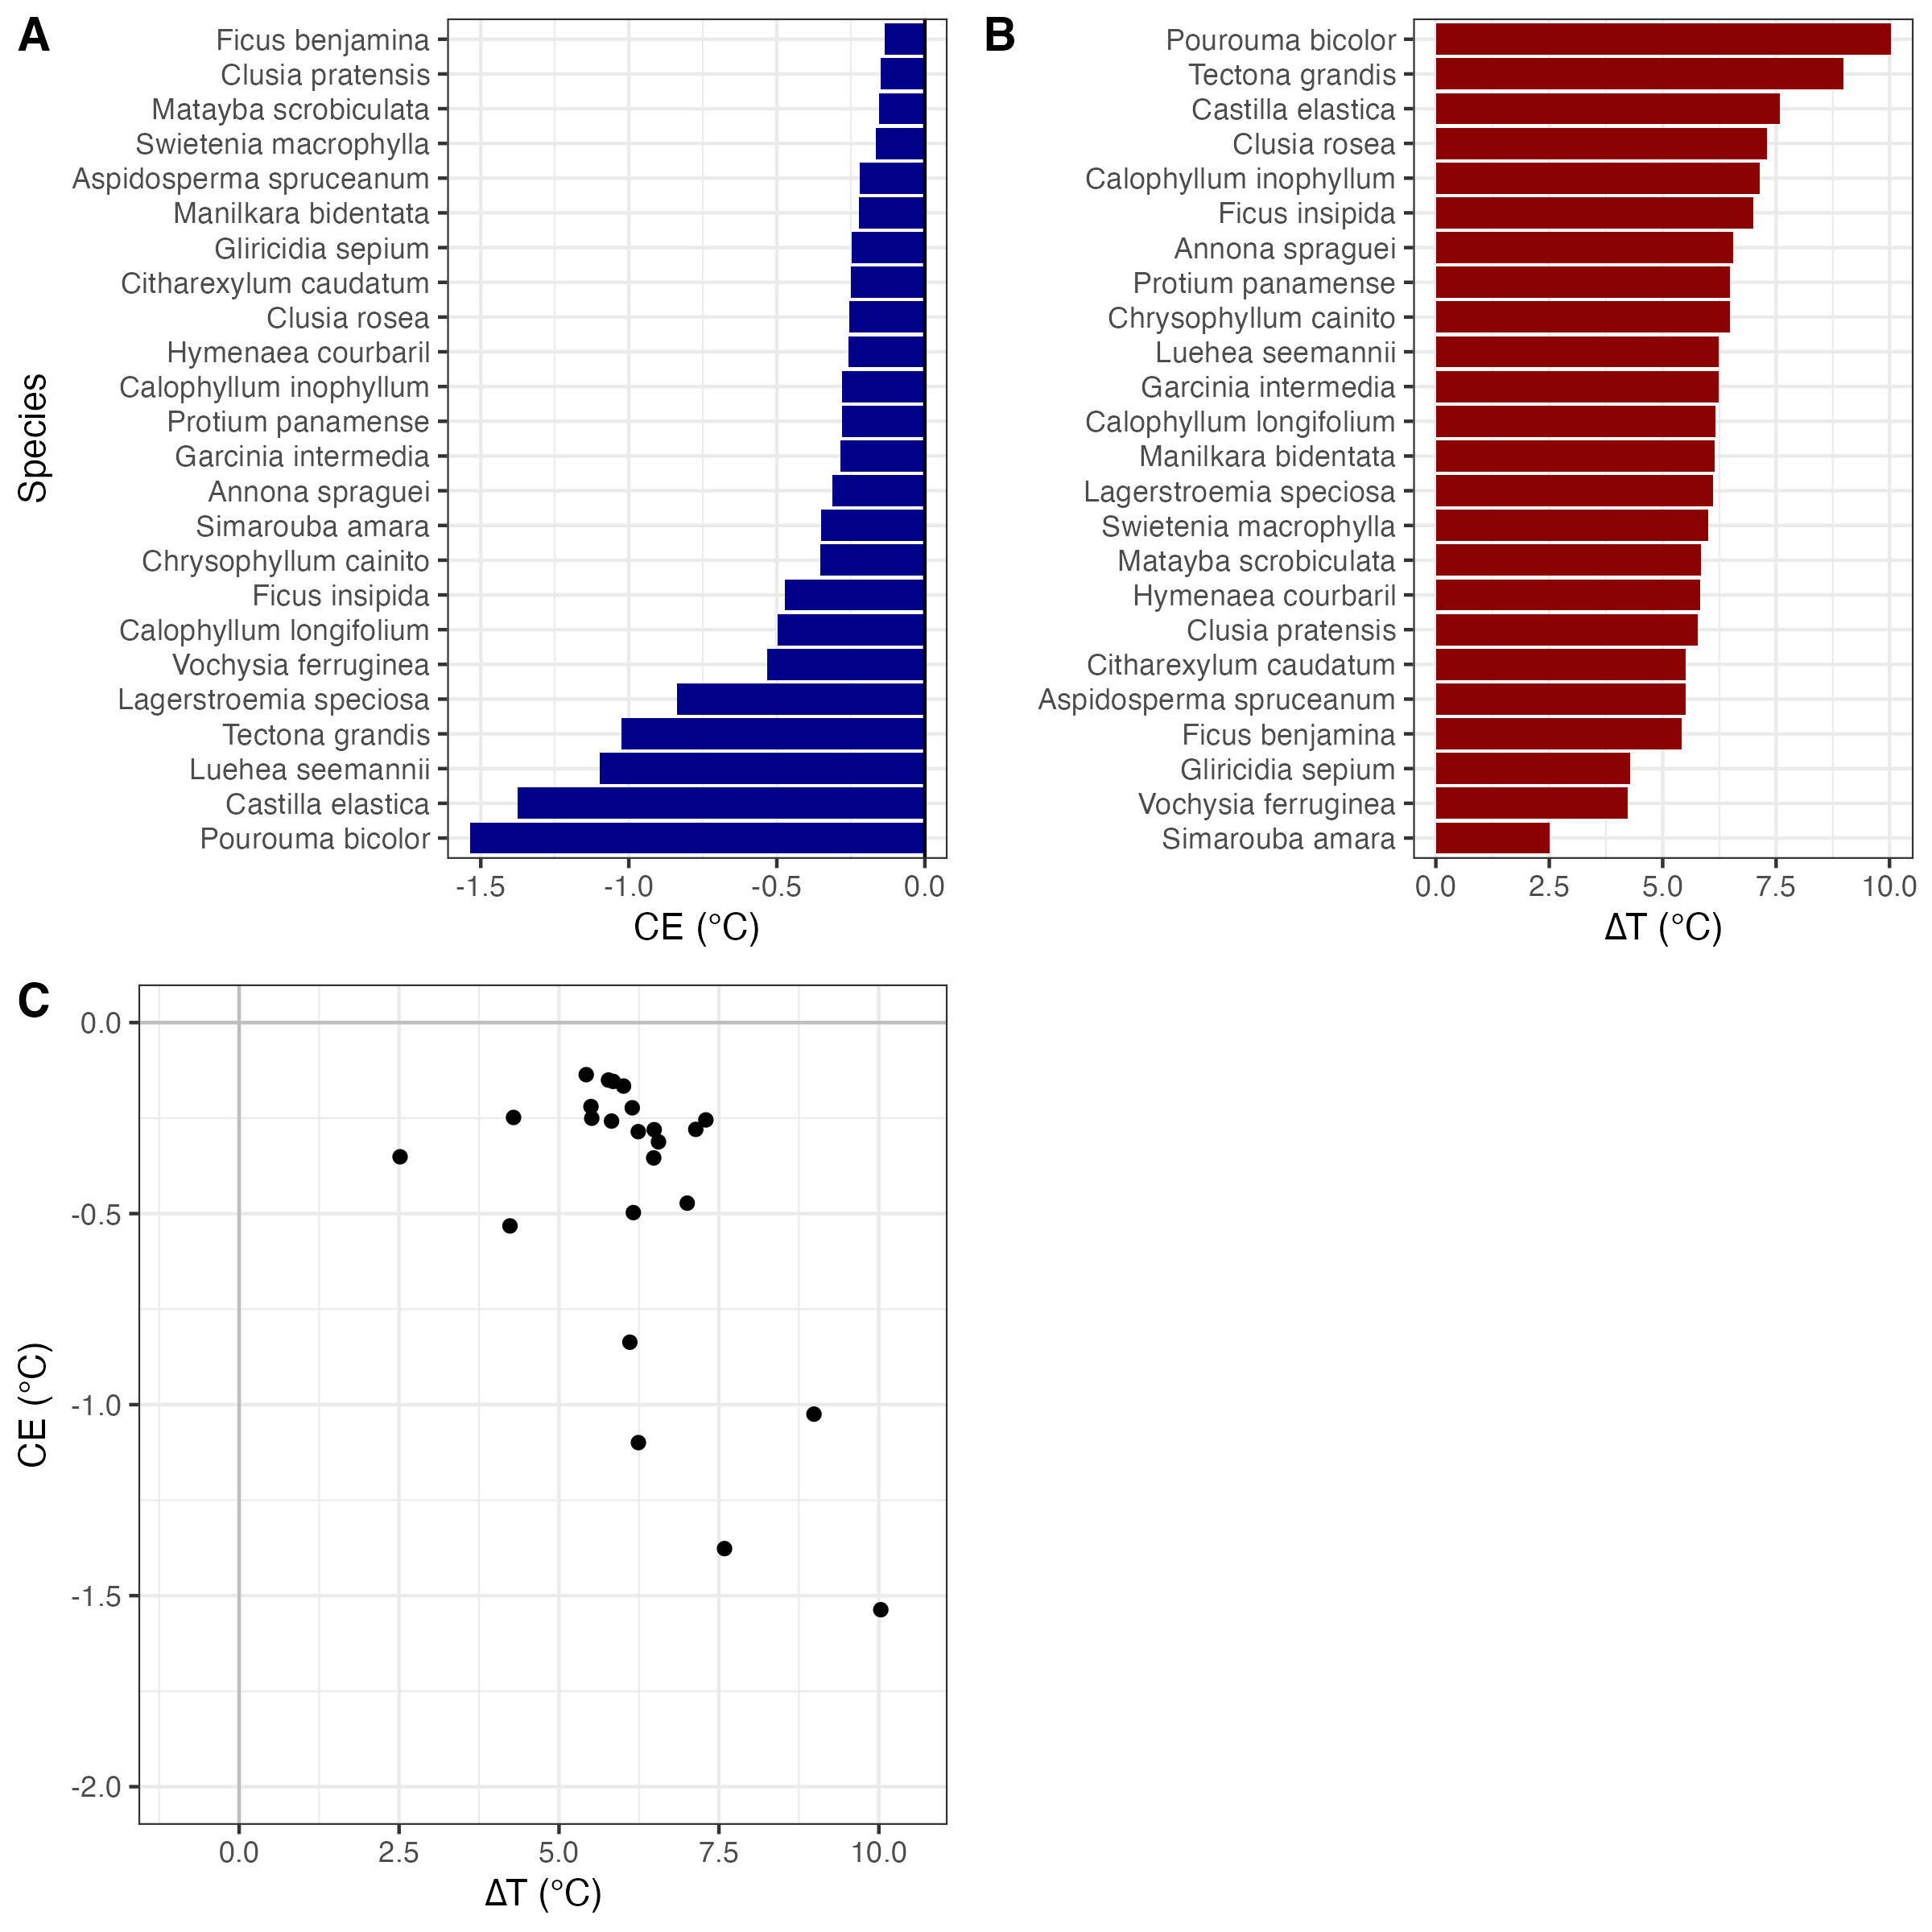
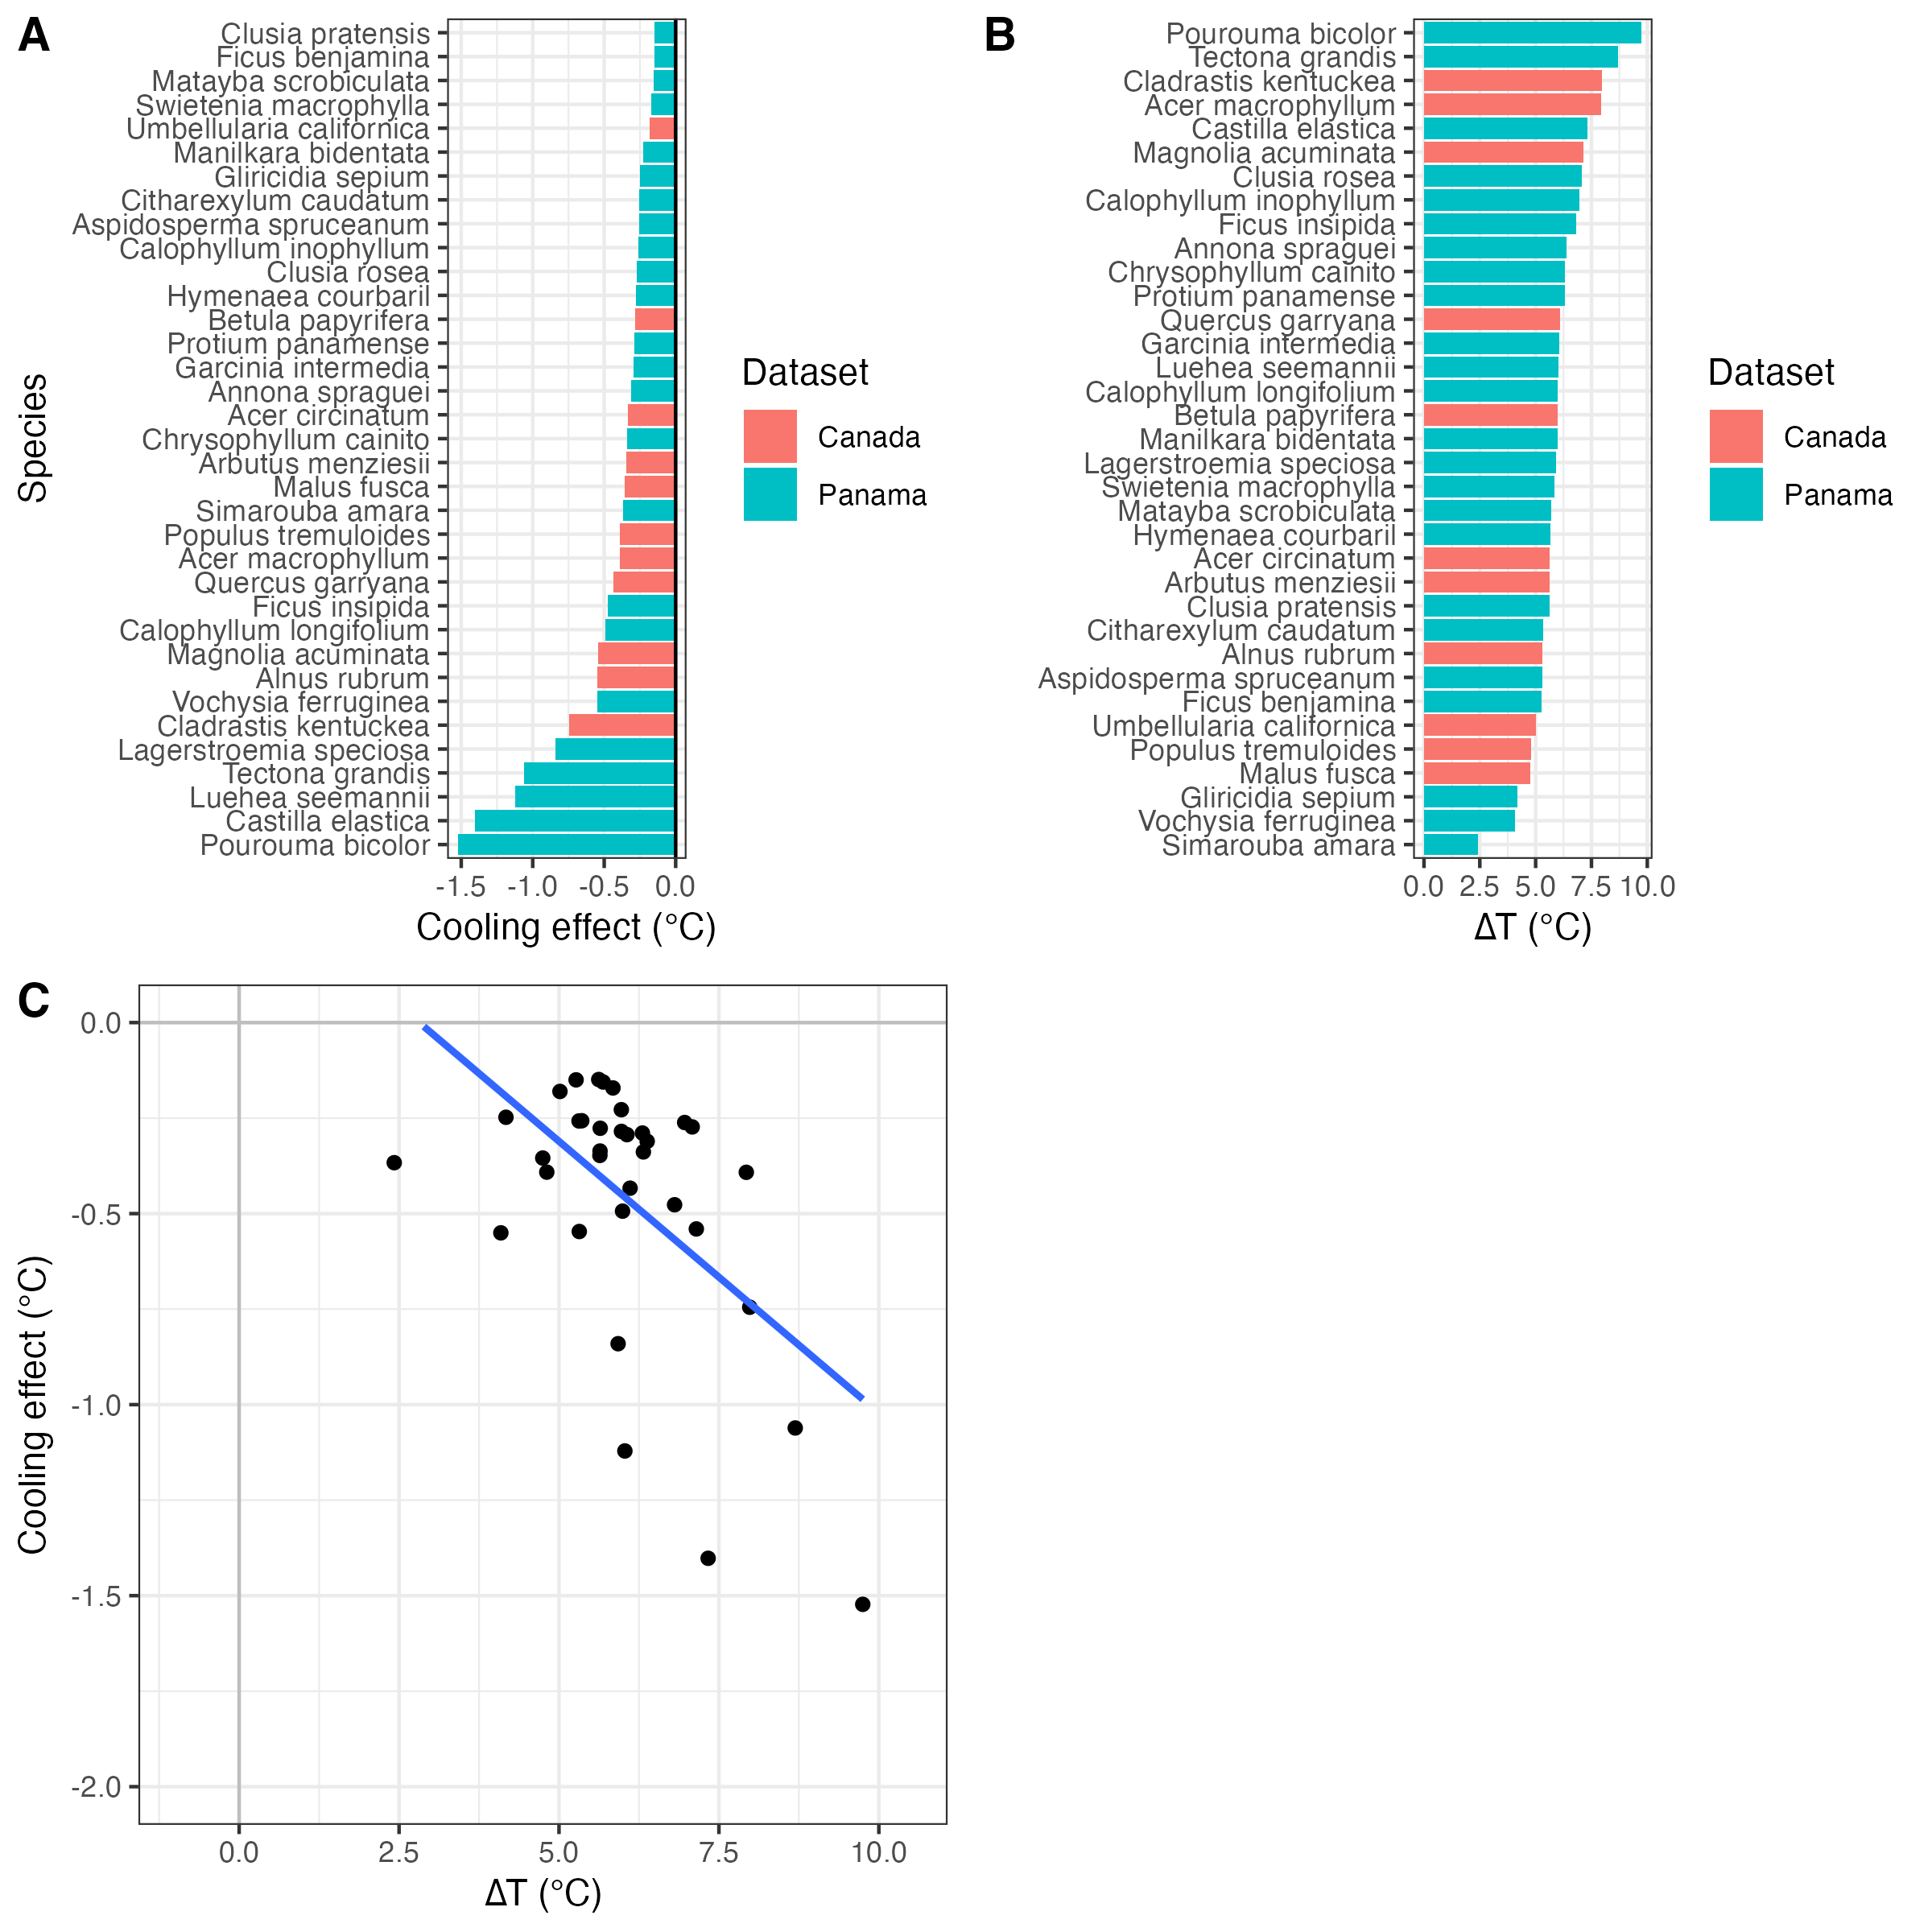
added new dataset from canada

diff --git a/README.md b/README.md
@@ -1,1 +1,6 @@
-# gmin_tair_slot_2021
+# Author
+Benjamin Blonder, [email redacted]
+
+# Data provenance
+Data from Slot et al. come from https://nph.onlinelibrary.wiley.com/doi/10.1111/nph.17626.
+Data from Garen et al. come from https://nph.onlinelibrary.wiley.com/doi/10.1111/nph.20346.